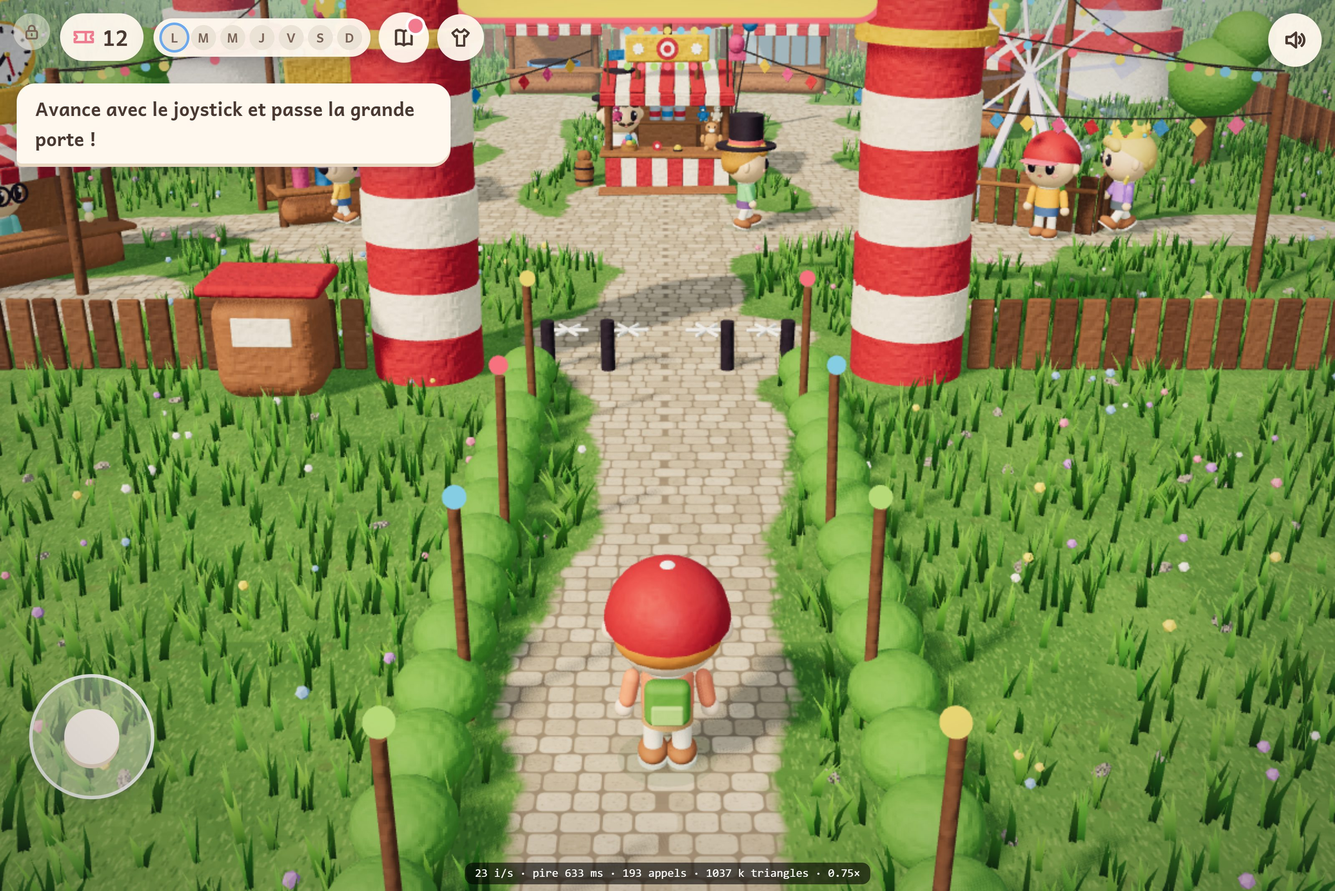
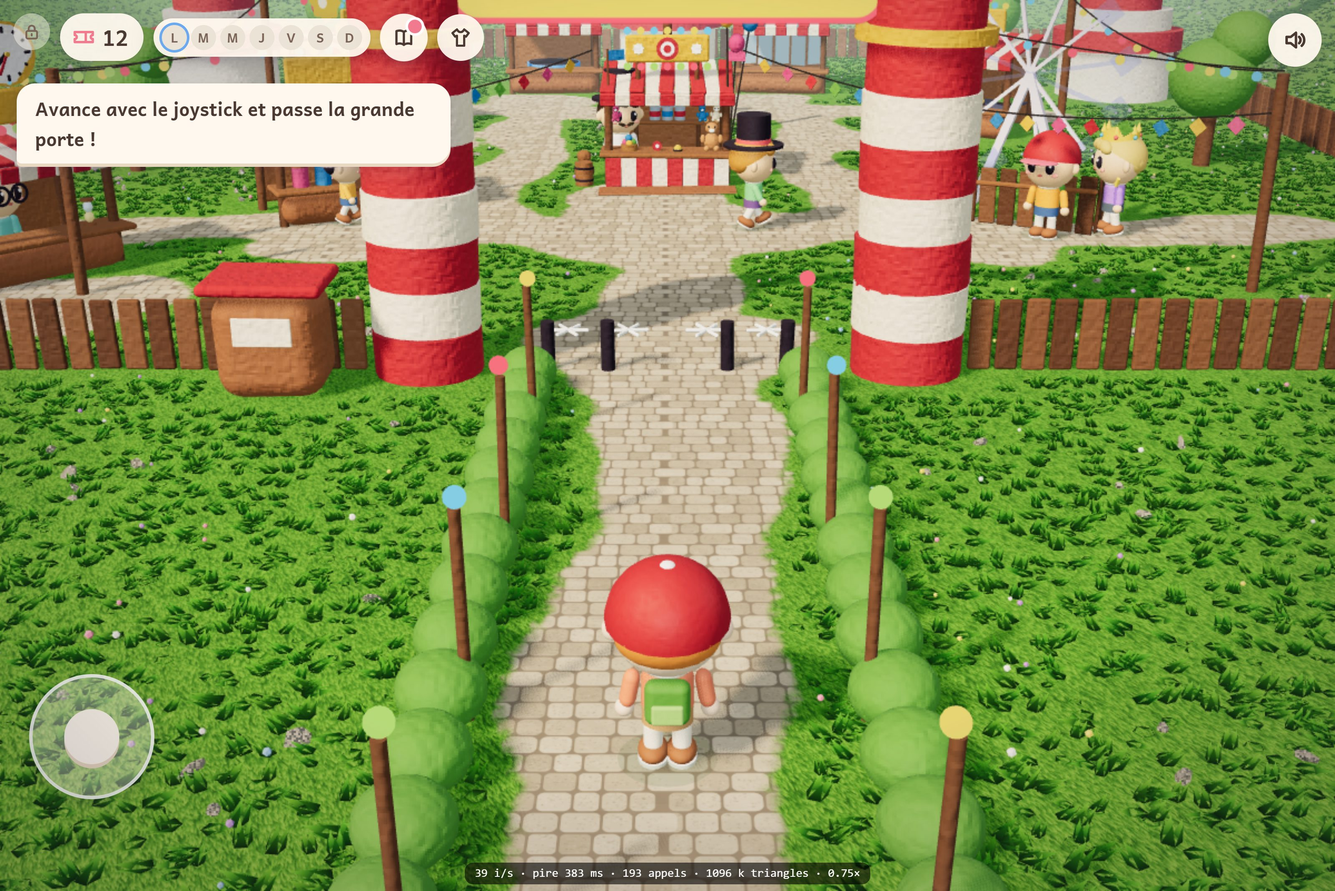
Gazon tondu : texture de feuilles denses en couches, touffes basses et serrées

diff --git a/src/scene/textures.ts b/src/scene/textures.ts
@@ -26,41 +26,56 @@ function graine(depart: number): () => number {
 
 export function texturesDouillettes(): { herbe: THREE.CanvasTexture; dalles: THREE.CanvasTexture; degrade: THREE.DataTexture; liberer(): void } {
   const haute = qualite === 'haute';
-  // Qualité haute : herbe plus fine et plus variée (touffes, terre, trèfle), pavés irréguliers.
+  // Qualité haute : un gazon tondu, dense, fait de feuilles pointues en couches serrées, toutes
+  // penchées dans le même sens (comme une pelouse brossée par le vent). Raccordable sans couture.
   const herbe = haute
-    ? toile(512, 512, (g) => {
+    ? toile(1024, 1024, (g) => {
         const hasard = graine(7);
-        g.fillStyle = palette.herbe.fond;
-        g.fillRect(0, 0, 512, 512);
-        // Grandes taches de teinte, puis des milliers de petits traits d'herbe.
-        for (let i = 0; i < 70; i++) {
-          g.fillStyle = hasard() > 0.5 ? palette.herbe.clair : palette.herbe.sombre;
-          g.globalAlpha = 0.18;
-          g.beginPath();
-          g.arc(hasard() * 512, hasard() * 512, 20 + hasard() * 60, 0, Math.PI * 2);
-          g.fill();
+        const T = 1024;
+        g.fillStyle = '#2c5e12';
+        g.fillRect(0, 0, T, T);
+        /** Une feuille : pointue, légèrement courbée, plus claire au bout. */
+        const feuille = (x: number, y: number, longueur: number, largeur: number, angle: number, base: string, bout: string): void => {
+          for (const dx of [0, -T, T]) {
+            for (const dy of [0, -T, T]) {
+              const ox = x + dx;
+              const oy = y + dy;
+              if (ox < -longueur || ox > T + longueur || oy < -longueur || oy > T + longueur) continue;
+              const cx = Math.cos(angle);
+              const cy = Math.sin(angle);
+              const px = -cy;
+              const py = cx;
+              const pointe = [ox + cx * longueur, oy + cy * longueur];
+              const courbe = (hasard() - 0.5) * largeur * 1.5;
+              const degrade = g.createLinearGradient(ox, oy, pointe[0] ?? ox, pointe[1] ?? oy);
+              degrade.addColorStop(0, base);
+              degrade.addColorStop(1, bout);
+              g.fillStyle = degrade;
+              g.beginPath();
+              g.moveTo(ox + px * largeur, oy + py * largeur);
+              g.quadraticCurveTo(ox + cx * longueur * 0.55 + px * (largeur + courbe), oy + cy * longueur * 0.55 + py * (largeur + courbe), pointe[0] ?? ox, pointe[1] ?? oy);
+              g.quadraticCurveTo(ox + cx * longueur * 0.5 - px * (largeur - courbe), oy + cy * longueur * 0.5 - py * (largeur - courbe), ox - px * largeur, oy - py * largeur);
+              g.closePath();
+              g.fill();
+            }
+          }
+        };
+        // Trois couches, de la plus sombre (au fond) à la plus claire (au-dessus).
+        const couches: Array<[number, string, string]> = [
+          [5200, '#244f0d', '#3f7e18'],
+          [4200, '#2f6612', '#5a9e22'],
+          [3000, '#3c7a16', '#86c834'],
+        ];
+        for (const [nombre, base, bout] of couches) {
+          for (let i = 0; i < nombre; i++) {
+            // Toutes penchées vers le haut à droite, avec un peu de désordre.
+            const angle = -Math.PI * 0.35 + (hasard() - 0.5) * 0.7;
+            feuille(hasard() * T, hasard() * T, 34 + hasard() * 30, 3.2 + hasard() * 2.6, angle, base, bout);
+          }
         }
-        g.globalAlpha = 1;
-        for (let i = 0; i < 9000; i++) {
-          const x = hasard() * 512;
-          const y = hasard() * 512;
-          const t = hasard();
-          g.strokeStyle = t > 0.66 ? palette.herbe.clair : t > 0.33 ? palette.herbe.sombre : '#7aa850';
-          g.globalAlpha = 0.35 + hasard() * 0.5;
-          g.lineWidth = 1 + hasard();
-          g.beginPath();
-          g.moveTo(x, y);
-          g.lineTo(x + (hasard() - 0.5) * 4, y - 3 - hasard() * 6);
-          g.stroke();
-        }
-        // Un peu de terre qui affleure.
-        for (let i = 0; i < 40; i++) {
-          g.fillStyle = '#6b5a3c';
-          g.globalAlpha = 0.12 + hasard() * 0.12;
-          g.beginPath();
-          g.ellipse(hasard() * 512, hasard() * 512, 3 + hasard() * 9, 2 + hasard() * 6, hasard() * 3, 0, Math.PI * 2);
-          g.fill();
-        }
+        // Quelques reflets clairs sur le bout des feuilles du dessus.
+        g.globalAlpha = 0.5;
+        for (let i = 0; i < 900; i++) feuille(hasard() * T, hasard() * T, 16 + hasard() * 14, 1.6 + hasard() * 1.2, -Math.PI * 0.35 + (hasard() - 0.5) * 0.6, '#6fb82c', '#a8e04a');
         g.globalAlpha = 1;
       })
     : toile(256, 256, (g) => {

diff --git a/src/scene/qualite.ts b/src/scene/qualite.ts
@@ -166,34 +166,29 @@ export interface Herbe {
   animer(temps: number): void;
 }
 
-/** Une touffe : trois brins croisés, pointus, plus clairs au bout. Hauteur 1, posée sur y = 0. */
+/**
+ * Une touffe de gazon tondu : cinq feuilles courtes et larges, toutes penchées du même côté que
+ * la texture du sol. Hauteur 1 (mise à l'échelle par instance), posée sur y = 0.
+ */
 function touffe(): THREE.BufferGeometry {
   const positions: number[] = [];
   const couleurs: number[] = [];
-  const base = new THREE.Color(0x3e6b2a);
-  const pointe = new THREE.Color(0x9ccf6a);
-  for (let b = 0; b < 3; b++) {
-    const a = (b / 3) * Math.PI + 0.3;
-    const dx = Math.cos(a) * 0.05;
-    const dz = Math.sin(a) * 0.05;
-    const penche = (b - 1) * 0.12;
-    const bas = [-dx, 0, -dz, dx, 0, dz];
-    const mi = [-dx * 0.6 + penche * 0.5, 0.55, -dz * 0.6, dx * 0.6 + penche * 0.5, 0.55, dz * 0.6];
-    const haut = [penche, 1, 0];
-    const tri = (p: number[][], t: number[]): void => {
-      for (const [i, v] of p.entries()) {
-        positions.push(...v);
-        const c = base.clone().lerp(pointe, t[i] ?? 0);
-        couleurs.push(c.r, c.g, c.b);
-      }
-    };
-    const A = bas.slice(0, 3);
-    const B = bas.slice(3, 6);
-    const C = mi.slice(0, 3);
-    const D = mi.slice(3, 6);
-    tri([A, B, D], [0, 0, 0.55]);
-    tri([A, D, C], [0, 0.55, 0.55]);
-    tri([C, D, haut], [0.55, 0.55, 1]);
+  const base = new THREE.Color(0x2a5c10);
+  const pointe = new THREE.Color(0x8ccb36);
+  for (let b = 0; b < 5; b++) {
+    const a = (b / 5) * Math.PI * 2;
+    const ox = Math.cos(a) * 0.09;
+    const oz = Math.sin(a) * 0.09;
+    const travers = a + Math.PI / 2;
+    const lx = Math.cos(travers) * 0.07;
+    const lz = Math.sin(travers) * 0.07;
+    // Penchées vers le même côté (+x, −z), comme une pelouse brossée.
+    const tip = [ox + 0.16, 1, oz - 0.12];
+    for (const [v, t] of [[[ox - lx, 0, oz - lz], 0], [[ox + lx, 0, oz + lz], 0], [tip, 1]] as const) {
+      positions.push(...v);
+      const c = base.clone().lerp(pointe, t);
+      couleurs.push(c.r, c.g, c.b);
+    }
   }
   const g = new THREE.BufferGeometry();
   g.setAttribute('position', new THREE.Float32BufferAttribute(positions, 3));
@@ -224,8 +219,8 @@ export function semerHerbe(
       vec3 pied = instanceMatrix[3].xyz;
       float souffle = sin(uTemps * 1.6 + pied.x * 0.35 + pied.z * 0.22) * 0.5 + sin(uTemps * 2.7 + pied.x * 0.9) * 0.2;
       float h = position.y * position.y;
-      transformed.x += souffle * 0.22 * h;
-      transformed.z += souffle * 0.12 * h;`,
+      transformed.x += souffle * 0.05 * h;
+      transformed.z += souffle * 0.03 * h;`,
     );
   };
   mat.customProgramCacheKey = () => 'herbe-vent';
@@ -246,11 +241,12 @@ export function semerHerbe(
     if (!libre(x, z)) continue;
     p.set(x, sol(x, z), z);
     q.setFromAxisAngle(new THREE.Vector3(0, 1, 0), hasard() * Math.PI * 2);
-    const hauteur = 0.35 + hasard() * 0.4;
-    const largeur = 0.8 + hasard() * 0.7;
+    // Un gazon tondu : bas (10 à 18 cm) et touffu.
+    const hauteur = 0.07 + hasard() * 0.06;
+    const largeur = 0.7 + hasard() * 0.6;
     s.set(largeur, hauteur, largeur);
     touffes.setMatrixAt(n, m.compose(p, q, s));
-    touffes.setColorAt(n, c.setHSL(0.24 + hasard() * 0.06, 0.45 + hasard() * 0.2, 0.42 + hasard() * 0.18));
+    touffes.setColorAt(n, c.setHSL(0.25 + hasard() * 0.04, 0.55 + hasard() * 0.2, 0.42 + hasard() * 0.14));
     n++;
   }
   touffes.count = n;
@@ -266,8 +262,8 @@ export function semerHerbe(
     const x = (hasard() * 2 - 1) * zone.x;
     const z = zone.zMin + hasard() * (zone.zMax - zone.zMin);
     if (!libre(x, z)) continue;
-    p.set(x, sol(x, z) + 0.32 + hasard() * 0.2, z);
-    s.setScalar(0.8 + hasard() * 0.8);
+    p.set(x, sol(x, z) + 0.12 + hasard() * 0.05, z);
+    s.setScalar(0.5 + hasard() * 0.5);
     fleurs.setMatrixAt(f, m.compose(p, q.identity(), s));
     fleurs.setColorAt(f, c.set(teintes[f % teintes.length] ?? 0xffffff));
     f++;

diff --git a/src/scene/terrain.ts b/src/scene/terrain.ts
@@ -133,7 +133,8 @@ export function construireTerrain(herbe: THREE.Texture, dalles: THREE.Texture, p
         '#include <map_fragment>',
         `// Herbe et pavés mélangés selon la carte des chemins, avec un bord irrégulier.
         vec2 sol = vPosMonde.xz;
-        vec4 couleurHerbe = texture2D(map, sol * 0.125);
+        // Une tuile de gazon tous les 3 m : des feuilles d'une quinzaine de centimètres.
+        vec4 couleurHerbe = texture2D(map, sol * 0.33);
         vec4 couleurPaves = texture2D(uDalles, sol * 0.3125);
         float chemin = texture2D(uMasque, (sol - vec2(${CARTE.x0.toFixed(1)}, ${CARTE.z0.toFixed(1)})) / ${CARTE.taille.toFixed(1)}).r;
         chemin = smoothstep(0.38, 0.62, chemin + (bruit3(vPosMonde * 1.3) - 0.5) * 0.45);

diff --git a/src/main.ts b/src/main.ts
@@ -746,7 +746,7 @@ if (qualite === 'haute') {
   scene.add(terrain.racine);
   ombrer(fete.racine);
   ombrer(entree.racine);
-  herbe = semerHerbe((x, z) => terrain.pave(x, z) < 0.2 && enfoncement(x, z) <= 0, 24000, { x: 38, zMin: -56, zMax: 44 }, hauteurSol);
+  herbe = semerHerbe((x, z) => terrain.pave(x, z) < 0.2 && enfoncement(x, z) <= 0, 55000, { x: 38, zMin: -56, zMax: 44 }, hauteurSol);
   scene.add(herbe.racine);
 }
 
